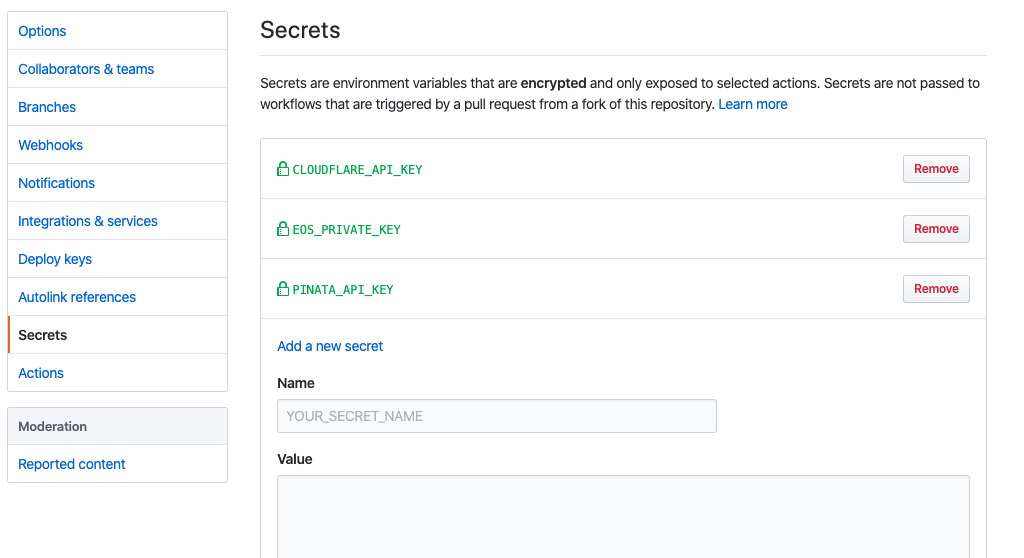
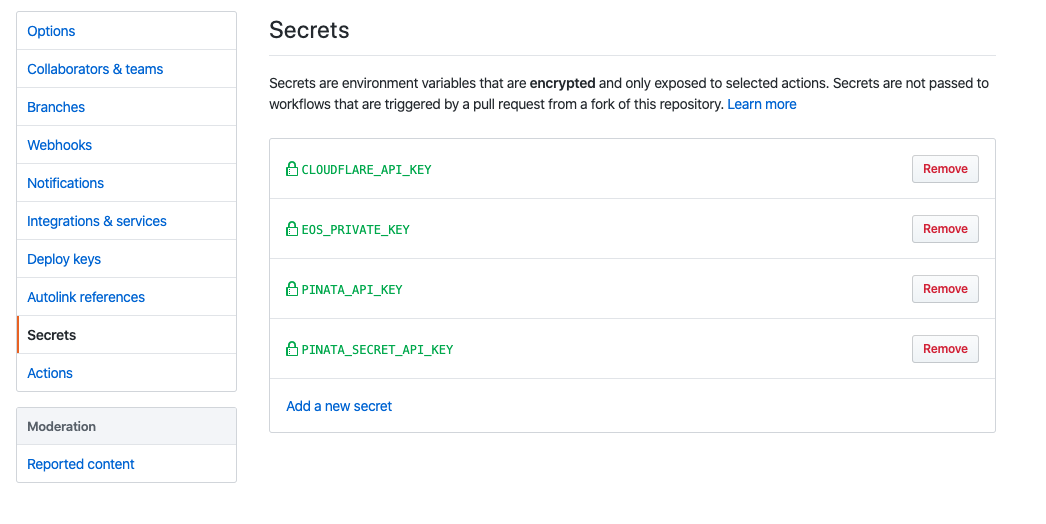
update readme

diff --git a/README.md b/README.md
@@ -5,6 +5,7 @@ A **dWeb Operator** has many responsibilities. Among them are managing the lifec
 
 For more in-depth information about the **dWeb Operator** role, and the other roles in the **dWeb eocsystem** please check [here](https://google.com).
 
+
 ### Intorduction:
 
 Below you will find a step-by-step guide that will provide you all the necessary components to be a **dWeb Operator**. 
@@ -17,6 +18,7 @@ Please note, as we've tested many configurations combinations for the *service p
 2. [Pinata](https://pinata.cloud/) as an IPFS pinning service.  
 3. [Cloudflare](https://www.cloudflare.com/) as a DNS configuration service. 
 
+
 ### Prerequisites:
 
 In order to complete this guide and become a **dWeb Operator**, you will need the following:
@@ -27,6 +29,7 @@ In order to complete this guide and become a **dWeb Operator**, you will need th
 4. An active [Cloudflare](https://dash.cloudflare.com/sign-up) account. 
 
   > You can purchase DAPP tokens by using the [Bancor](https://www.bancor.network) or [NewDex](https://www.newdex.io).
+
 
 ### Configuration Architecture:
 
@@ -78,7 +81,7 @@ In this step we will create a separate GitHub's actions [Secret](https://help.gi
    
 1. Connect to your [Pinata](https://pinata.cloud/signup) account.
 2. In the upper-right corner, click on your profile image and navigate to your **Account Page**.
-3. In the **Account Page**, the relevat value exists under the PINATA SECRET API KEY field.
+3. In the **Account Page**, the relevat values exists under the **PINATA API KEY** and **PINATA SECRET API KEY** fields.
    
 ![Pinata account page](images/pinata.png)
 
@@ -113,6 +116,9 @@ In this step we'll create a dedicated secret variable for each of the API secret
       Name: PINATA_API_KEY
       Value: <Your Pinata api key>
 
+      Name: PINATA_SECRET_API_KEY
+      Value: <Your Pinata secret api key>
+
       Name: CLOUDFLARE_API_KEY
       Value: <Your Cloudflare api key>     
       ```
@@ -125,3 +131,5 @@ Yay! Now that we defined all the secrets we need, let's go and activate the gith
 
 1. Navigate to the **Actions** tab and activate the workflow.
   ![github's actions secrets](images/github-activate-workflow.png)
+
+2. 
